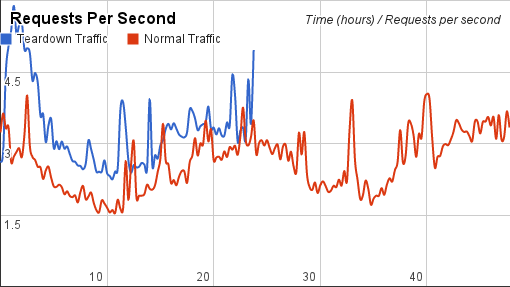
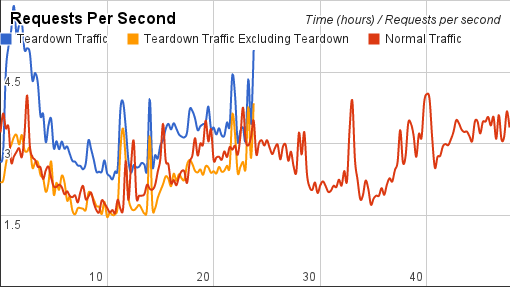
Add teardown traffic excluding teardown data

diff --git a/thesis.tex b/thesis.tex
@@ -945,13 +945,14 @@ For both of these reasons, a decrease in total database query time should be obs
 
 \section{Results} \label{results}
 The following are results from the experiments outlined above.
-\textit{Teardown traffic} refers to the Galaxy S4 Teardown traffic starting right before the teardown was published while \textit{Normal traffic} refers to two standard days of traffic starting at 11AM\@.
+\textit{Teardown traffic} refers to the Galaxy S4 Teardown traffic starting right before the teardown was published while \textit{Normal traffic} refers to two standard days of traffic.
+Both sets of traffic start at 11AM Mountain Standard Time (MST).
 Figure~\ref{fig:requestsPerSecXTime} shows the requests per second over time for both data sets.
+The \textit{Teardown Traffic Excluding Teardown} data points are from the teardown traffic excluding all views and edits for the teardown content, which is very similar to the normal traffic data set.
 
 All ``over time'' graphs are constructed from 15 minute groupings of requests for a total of 96 and 192 data points for the teardown traffic and normal traffic, respectively.
 The \textit{Control} data points are from the code that is currently running \textsf{www.iFixit.com} while the \textit{GC} data points are from our improvements using generational caching.
 
-% TODO: Show traffic without requests for teardown.
 \begin{figure}[h]
 \centering
 \includegraphics[width=\textwidth]{assets/requestsPerSecXTime.png}
@@ -959,7 +960,7 @@ The \textit{Control} data points are from the code that is currently running \te
 \label{fig:requestsPerSecXTime}
 \end{figure}
 
-Average times for responses, \textsf{Memcached}, database queries, and HTMl generation during both experiments are shown in Table~\ref{tab:averageExperimentTimes}.
+Average times for responses, \textsf{Memcached}, database queries, and HTML generation during both experiments are shown in Table~\ref{tab:averageExperimentTimes}.
 As we expected, response, database query, and HTML render times decreased for our generational caching implementation.
 However, \textsf{Memcached} time has remained approximately the same.
 
@@ -985,7 +986,6 @@ As we expected, \textsf{Memcached} misses and database queries have decreased fo
 However, \textsf{Memcached} gets and cache hit rate go down.
 This phenomenon is explained in Section~\ref{resultsAnalysis}.
 
-% TODO: Comment on cache hit rate going down - mention that it is explained in the analysis.
 \begin{table}[h]
 \begin{center}
 \begin{tabular}{| l | l | l | l | l |}
